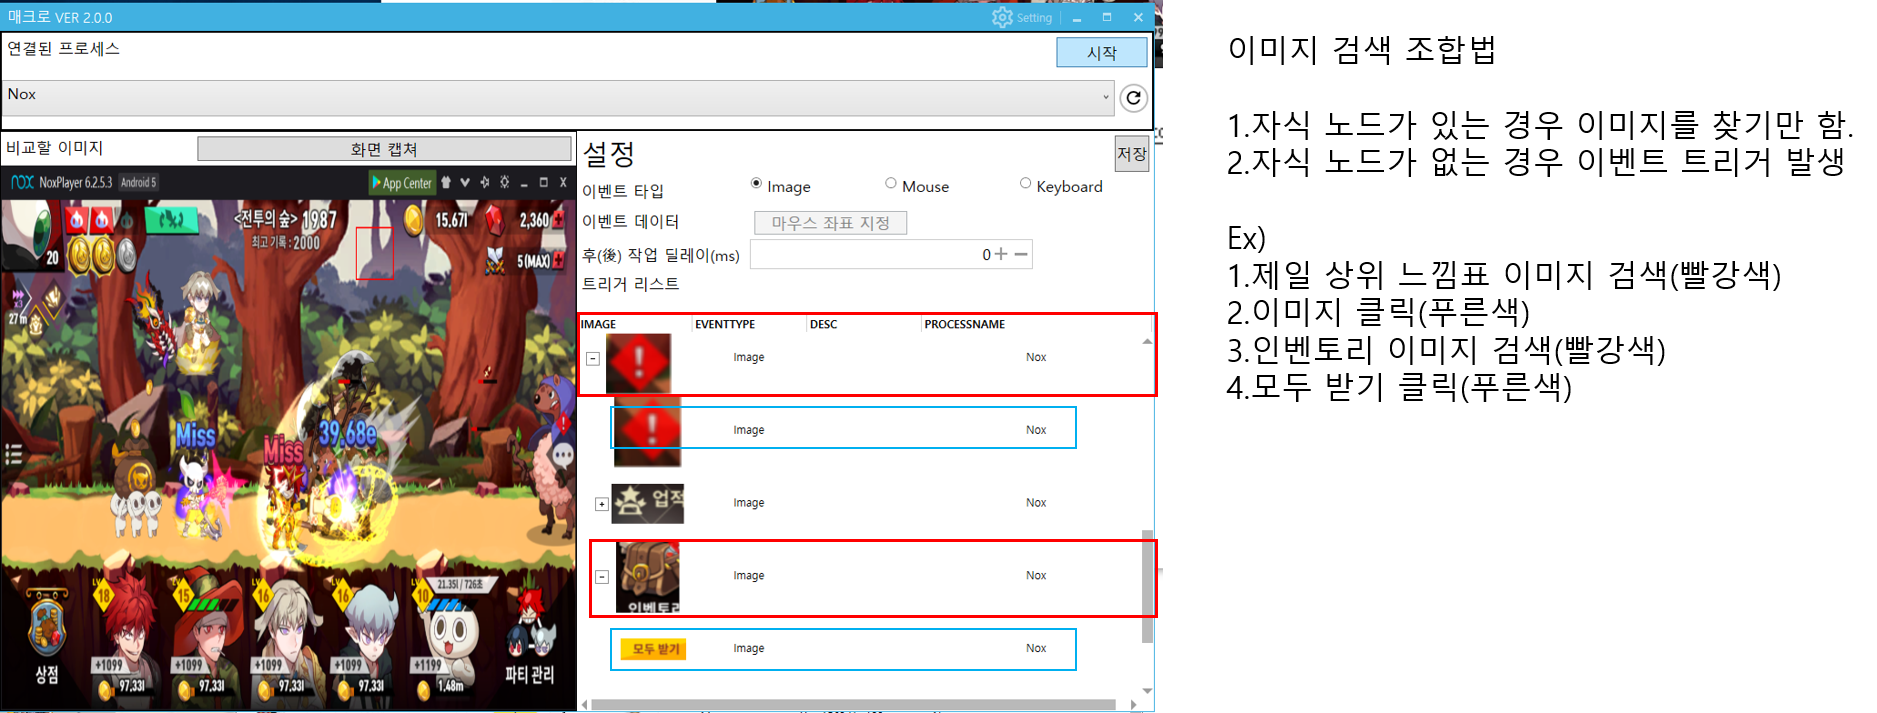
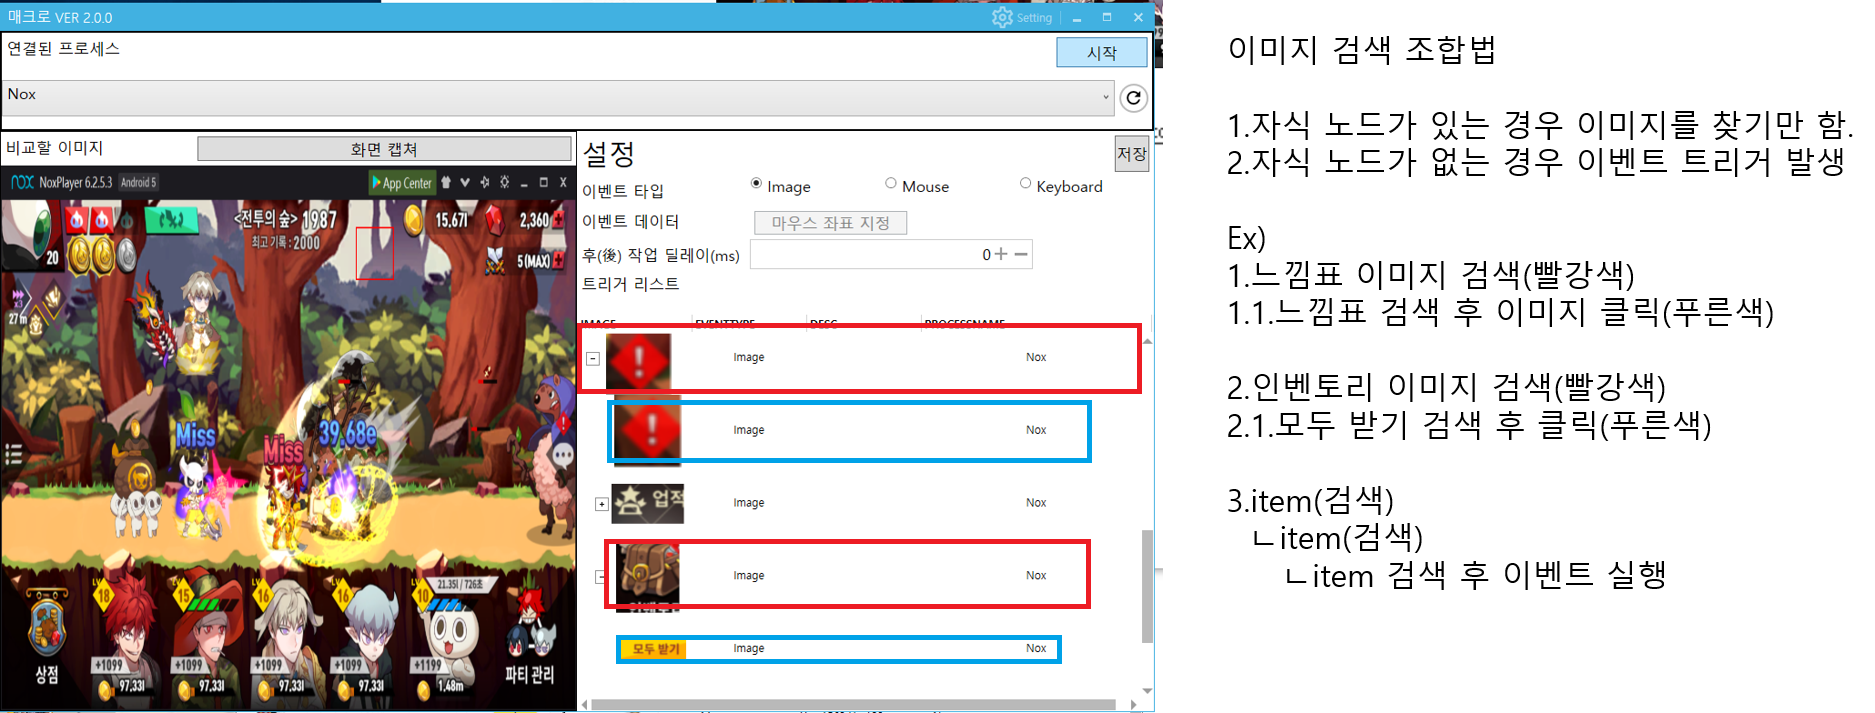
설명 변경

diff --git a/README.md b/README.md
@@ -19,13 +19,17 @@ OS 버전
     
         1.2 Image, Mouse, Keyboard, RelativeToImage 이벤트 선택
     
-            - Image : 찾은 이미지를 클릭합니다.
+            1.2.1 Image : 찾은 이미지를 클릭합니다.
+                
+                - 찾은 이미지 내에서 랜덤 클릭합니다.(좌표 패턴화 되는 것을 방지합니다.)
 
-            - Mouse : 좌표 지정(좌클릭, 우클릭, 드래그) 해주시면 됩니다.
+                - 고정된 좌표를 클릭하는 마우스 이벤트보다 우선시 해주세요.
+
+            1.2.2 Mouse : 좌표 지정(좌클릭, 우클릭, 드래그) 해주시면 됩니다.
         
-            - Keyboard : Ctrl + c + v 이런식으로 조합키를 넣어주면 됩니다.
+            1.2.3 Keyboard : Ctrl + c + v 이런식으로 조합키를 넣어주면 됩니다.
 
-            - RelativeToImage : 찾은 이미지로부터 +- 한 거리를 클릭합니다.(아이디어 Ko9ma7 제공)
+            1.2.4 RelativeToImage : 찾은 이미지로부터 +- 한 거리를 클릭합니다.(아이디어 Ko9ma7 제공)
         
         1.3 실행시 이미지를 캡쳐할 실행 프로세스를 선택하시면 됩니다.
 
